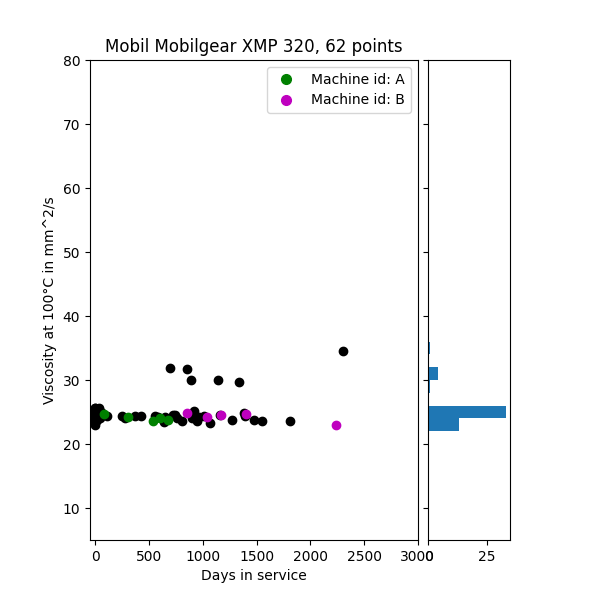
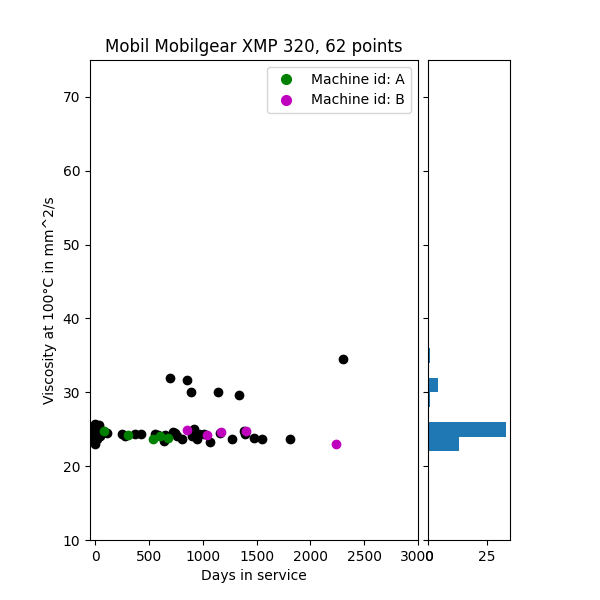
Oct 2, 2022, 8:52 PM

diff --git a/project/dataset.py b/project/dataset.py
@@ -637,9 +637,9 @@ class Dataset:
                     xlabelstr = ""
                     
                     if paramy == "Wasser K. F." or paramy == "Viskosität bei 40°C" or paramy == "Viskosität bei 100°C":
-                        binwidth = round((np.max(np.abs(y1)) - np.min(np.abs(y1))) / round(Decimal(len(x1)).sqrt()))
+                        binwidthy = round((np.max(np.abs(y1)) - np.min(np.abs(y1))) / round(Decimal(len(x1)).sqrt()))
                     else:     
-                        binwidth = (np.max(np.abs(y1)) - np.min(np.abs(y1))) / round(Decimal(len(x1)).sqrt())
+                        binwidthy = (np.max(np.abs(y1)) - np.min(np.abs(y1))) / round(Decimal(len(x1)).sqrt())
 
                     save_name = ""
 
@@ -652,16 +652,16 @@ class Dataset:
                             ax.set_xlim(-50, 4000)
                             ax.set_ylim(0, 1000)
                             if len(x1) > 150:
-                                binwidth = 25
+                                binwidthy = 25
                             else:
-                                binwidth = 50
+                                binwidthy = 50
                         case "Neutralisationszahl":
                             ylabelstr = "Acid number in mgkOH/gOil"
                             ax.set_xlim(-50, 4000)
                             ax.set_ylim(0, 3)
                             save_name = f"AN_vs_days_{machine_id1}_{machine_id2}_{oil_name}.png"
-                            if binwidth < 0.15:
-                                binwidth = 0.15
+                            if binwidthy < 0.15:
+                                binwidthy = 0.15
                             #binwidth = 0.25
                         case "Oxidation":
                             ylabelstr = "Oxidation in A/cm"
@@ -672,24 +672,24 @@ class Dataset:
                             ax.set_ylim(200, 400)
                             save_name = f"v40_vs_days_{machine_id1}_{machine_id2}_{oil_name}.png"
                             if len(x1) > 150:
-                                binwidth = 4
+                                binwidthy = 4
                             else:
-                                binwidth = 5      
+                                binwidthy = 5      
                         case "Viskosität bei 100°C":
                             ylabelstr = "Viscosity at 100°C in mm^2/s"
                             ax.set_xlim(-50, 3000)
                             ax.set_ylim(10, 75)
                             save_name = f"v100_vs_days_{machine_id1}_{machine_id2}_{oil_name}.png"
                             if len(x1) > 150:
-                                binwidth = 1
+                                binwidthy = 1
                             else:
-                                binwidth = 2              
+                                binwidthy = 2              
                     
-                    print("binwidth:", binwidth)
+                    print("binwidthy:", binwidthy)
                     xymax = max(np.max(np.abs(x1)), np.max(np.abs(y1)))
-                    lim = (int(xymax/binwidth) + 1) * binwidth
+                    lim = (int(xymax/binwidthy) + 1) * binwidthy
 
-                    bins = np.arange(-lim, lim + binwidth, binwidth)
+                    bins = np.arange(-lim, lim + binwidthy, binwidthy)
                     
                     ax_histy.hist(y1, bins=bins, orientation='horizontal')
                     
